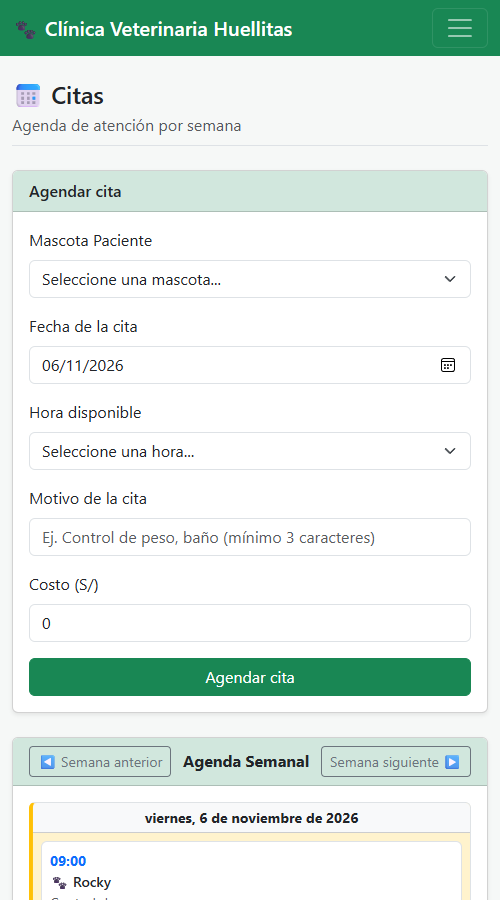
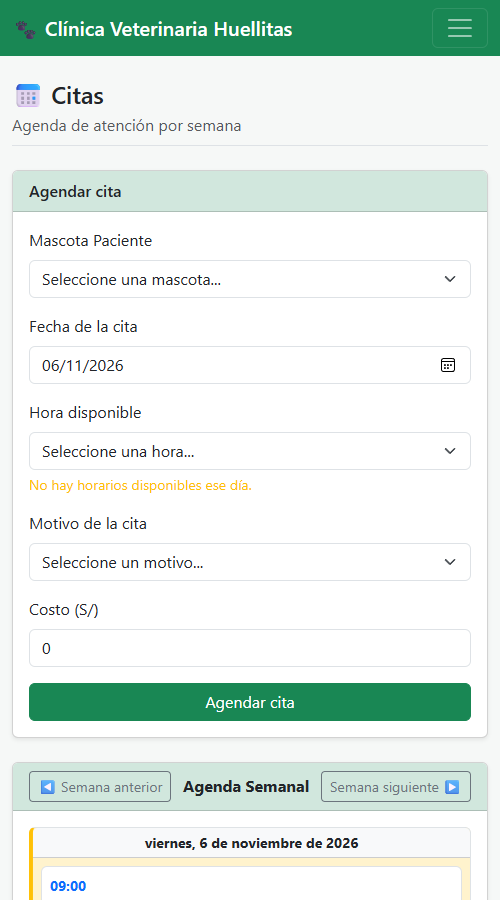
docs(readme): actualiza capturas y tipos con el costo por motivo
Las capturas mostraban el costo editable y la especie anterior. Se toman de
nuevo de la aplicación en ejecución y se reemplaza el tipo Especie, que ya no
existe, en la tabla de criterios.

Verificado: capturas sin errores de consola.

Changed region(s): [[0.0, 0.5289, 0.99, 1.0], [0.42, 0.5289, 0.51, 0.56]]

diff --git a/README.md b/README.md
@@ -117,7 +117,7 @@ Cada módulo tiene su archivo `*.routes.ts` y se carga cuando el usuario entra a
 
 | Criterio | Dónde está |
 |---|---|
-| Tipos, interfaces y funciones tipadas | `*.model.ts` (interfaces `Mascota`, `Cita`, `Atencion`; tipos `Especie`, `EstadoCita`) |
+| Tipos, interfaces y funciones tipadas | `*.model.ts` (interfaces `Mascota`, `Cita`, `Atencion`; tipos `Sexo`, `EstadoCita`) |
 | POO: herencia, abstracción, polimorfismo, encapsulamiento | `Persona` (abstracta) → `Dueno` y `Veterinario`; `RepositorioMemoria<T>` → todos los servicios; `datos` es `protected` |
 | Implementación de interfaces | `Persona implements Describible`; los pipes implementan `PipeTransform` |
 | Arquitectura modular | Una carpeta por funcionalidad + `shared`, con rutas propias |
